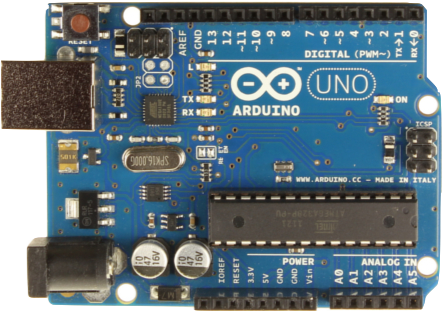
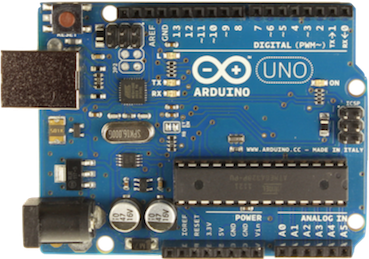
awareness

diff --git a/public/styles/init.css b/public/styles/init.css
@@ -140,27 +140,27 @@ label.label{display:inline;}
 #dragLights{width:auto;height:90px;}
 #dragVibration{width:auto;height:80px;}
 #dragSound{width:auto;height:80px;}
-#mainContainer{width:850px;margin-top:10px;height:480px;border:1px solid #bce8f1;background-color:#d9edf7;-webkit-border-radius:4px;border-radius:4px;color:#3a87ad;}
-#components{width:230px;float:left;padding:10px 22px 10px 22px;height:461px;border-right:thin solid #3a87ad;color:#3a87ad;}
-#countries{width:450px;float:right;margin:90px 60px 10px 0px;height:400px;background-image:url('../images/ArduinoUno.png');background-repeat:no-repeat;}
+#mainContainer{width:700px;margin-top:10px;height:420px;border:1px solid #bce8f1;background-color:#d9edf7;-webkit-border-radius:4px;border-radius:4px;color:#3a87ad;}
+#components{width:210px;float:left;padding:10px 22px 10px 22px;height:401px;border-right:thin solid #bce8f1;color:#3a87ad;}
+#countries{width:450px;float:right;margin:90px -50px 10px 0px;height:370px;background-image:url('../images/ArduinoUno.png');background-size:76% 62%;background-repeat:no-repeat;}
 .dragableBox1{margin-bottom:5px;padding:3px 3px 3px 3px;font-weight:bold;text-align:center;}
-.dragableBox1 img{width:220px;height:80px;}
+.dragableBox1 img{width:200px;height:70px;}
 .dragableBox2{margin-bottom:5px;padding:3px 3px 3px 3px;font-weight:bold;text-align:center;}
-.dragableBox2 img{width:137px;height:137px;}
+.dragableBox2 img{width:120px;height:120px;}
 .dragableBox3{margin-bottom:5px;padding:3px 3px 3px 3px;font-weight:bold;text-align:center;}
-.dragableBox3 img{width:100px;height:70px;}
+.dragableBox3 img{width:80px;height:50px;}
 .dragableBox4{margin-bottom:5px;padding:3px 3px 3px 3px;font-weight:bold;text-align:center;}
-.dragableBox4 img{width:140px;height:90px;}
+.dragableBox4 img{width:130px;height:80px;}
 .dragableBoxRight{border:1px solid greenyellow;margin-bottom:5px;padding:3px 3px 3px 3px;font-weight:bold;text-align:center;}
 div.dragableBoxRight{height:90px;width:140px;float:left;margin-right:5px;padding:0;}
 .dropBox{width:190px;border:1px solid #000;background-color:#E2EBED;height:400px;margin-bottom:10px;padding:3px;overflow:auto;}
 a{color:#F00;}
 .clear{clear:both;}
-#box101{width:226px;height:86px;margin-left:50px;margin-top:10px;}
-#box102{width:143px;height:143px;margin-left:50px;margin-top:10px;}
-#box103{width:106px;height:76px;margin-left:30px;margin-top:10px;}
-#box104{width:146px;height:96px;margin-left:50px;margin-top:80px;}
-#box1{width:220px;height:80px;}
-#box2{width:137px;height:137px;}
-#box3{width:100px;height:70px;}
-#box4{width:140px;height:90px;}
+#box101{width:206px;height:76px;margin-left:50px;margin-top:10px;}
+#box102{width:126px;height:126px;margin-left:50px;margin-top:10px;}
+#box103{width:86px;height:56px;margin-left:30px;margin-top:10px;}
+#box104{width:136px;height:86px;margin-left:50px;margin-top:80px;}
+#box1{width:200px;height:70px;}
+#box2{width:120px;height:120px;}
+#box3{width:80px;height:50px;}
+#box4{width:130px;height:80px;}

diff --git a/public/styles/init.less b/public/styles/init.less
@@ -1080,31 +1080,32 @@ text-align: center;
 }
 
 #mainContainer{
-		width:850px;
+  width:700px;
   margin-top:10px;
-  height:480px;
+  height:420px;
   border:1px solid #bce8f1;
-		background-color:#d9edf7;
-		 -webkit-border-radius: 4px;
-                border-radius:4px;
+  background-color:#d9edf7;
+  -webkit-border-radius: 4px;
+  border-radius:4px;
   color: #3a87ad;
 
-	}
-	
-	#components{
-		width:230px;
-		float:left;
-		padding:10px 22px 10px 22px;
-		height:461px;
-               border-right: thin solid #3a87ad;
-                color: #3a87ad;
-	}
+}
+      
+#components {
+  width:210px;
+  float:left;
+  padding:10px 22px 10px 22px;
+  height:401px;
+  border-right: thin solid #bce8f1;
+  color: #3a87ad;
+}
 	#countries{
 		width:450px;
 		float:right;
-		margin:90px 60px 10px 0px;
-		height:400px;
+		margin:90px -50px 10px 0px;
+		height:370px;
 		background-image: url('../images/ArduinoUno.png');
+                background-size: 76% 62%;
 		background-repeat:no-repeat;
 		
 	}	
@@ -1116,8 +1117,8 @@ text-align: center;
 	}
         
         .dragableBox1 img {
-          width:220px;
-          height:80px;
+          width:200px;
+          height:70px;
         }
         .dragableBox2 {
 		margin-bottom:5px;
@@ -1127,8 +1128,8 @@ text-align: center;
 	}
         
         .dragableBox2 img {
-           width: 137px;
-          height: 137px;
+           width: 120px;
+          height: 120px;
         }
         
         .dragableBox3 {
@@ -1139,8 +1140,8 @@ text-align: center;
 	}
         
         .dragableBox3 img {
-          width: 100px;
-          height: 70px;
+          width: 80px;
+          height: 50px;
         }
         
         .dragableBox4 {
@@ -1151,8 +1152,8 @@ text-align: center;
 	}
         
         .dragableBox4 img {
-          width: 140px;
-          height: 90px;
+          width: 130px;
+          height: 80px;
         }
         
         .dragableBoxRight{
@@ -1189,51 +1190,55 @@ text-align: center;
 	}
 	
 	#box101 {
-		width: 226px;
-                height: 86px;
+		width: 206px;
+                height: 76px;
 		margin-left: 50px;
 		margin-top:10px;
 		
 	}
 	#box102 {
-		width: 143px;
-                height: 143px;
+		width: 126px;
+                height: 126px;
 		margin-left: 50px;
 		margin-top:10px;
 		
 	}
 	#box103 {
-		width: 106px;
-                height: 76px;
+		width: 86px;
+                height: 56px;
 		margin-left: 30px;
 		margin-top:10px;
 		
 	}
 	#box104 {
-	  width: 146px;
-          height: 96px;
+	  width: 136px;
+          height: 86px;
 	  margin-left:50px;
 	  margin-top:80px;
 		
 	}
 
 #box1 {
-  width:220px;
-  height:80px;
+  width:200px;
+  height:70px;
 }
 
 #box2 {
-  width: 137px;
-  height: 137px;
+  width: 120px;
+  height: 120px;
 }
 
 #box3 {
-  width: 100px;
-  height: 70px;
+  width: 80px;
+  height: 50px;
 }
 
 #box4 {
-  width: 140px;
-  height: 90px;
+  width: 130px;
+  height: 80px;
+}
+
+#options {
+  
 }
 

diff --git a/srv.app.js b/srv.app.js
@@ -47,17 +47,30 @@ define(['kickstart', 'module', 'path', 'fs'], function (kickstart, module, path,
   });
   
   /** 
-   * Catch request for serving Test example page
+   * Catch request for serving Display
    */
-  srv.all('/example-test.html', function(req, res) {
-    res.render('example-test', {jsApp: 'test', active: 'examples', title: 'noduino', 'examples': examples});
+  srv.all('/display-options.html', function(req, res) {
+    res.render('display-options', {jsApp: 'none', active: 'display-options', title: 'noduino', 'examples': examples});
   });
   
   /** 
-   * Catch request for serving Ajax example page
+   * Catch request for serving Lights
    */
-  srv.all('/example-ajax_info.html', function(req, res) {
-    res.render('example-ajax_info', {jsApp: 'ajax_info', active: 'examples', title: 'noduino', 'examples': examples});
+  srv.all('/lights-options.html', function(req, res) {
+    res.render('lights-options', {jsApp: 'none', active: 'lights-options', title: 'noduino', 'examples': examples});
+  });
+  
+  /** 
+   * Catch request for serving Vibration
+   */
+  srv.all('/vibration-options.html', function(req, res) {
+    res.render('vibration-options', {jsApp: 'none', active: 'vibration-options', title: 'noduino', 'examples': examples});
+  });
+  /** 
+   * Catch request for serving Sound
+   */
+  srv.all('/sound-options.html', function(req, res) {
+    res.render('sound-options', {jsApp: 'none', active: 'sound-options', title: 'noduino', 'examples': examples});
   });
   
   /**

diff --git a/views/display-options.html b/views/display-options.html
@@ -1,0 +1,13 @@
+<!DOCTYPE html>
+
+<html>
+<head>
+    <title>Page Title</title>
+</head>
+
+<body>
+
+
+
+</body>
+</html>

diff --git a/views/sound-options.html b/views/sound-options.html
@@ -1,0 +1,13 @@
+<!DOCTYPE html>
+
+<html>
+<head>
+    <title>Page Title</title>
+</head>
+
+<body>
+
+
+
+</body>
+</html>

diff --git a/views/vibration-options.html b/views/vibration-options.html
@@ -1,0 +1,13 @@
+<!DOCTYPE html>
+
+<html>
+<head>
+    <title>Page Title</title>
+</head>
+
+<body>
+
+
+
+</body>
+</html>
